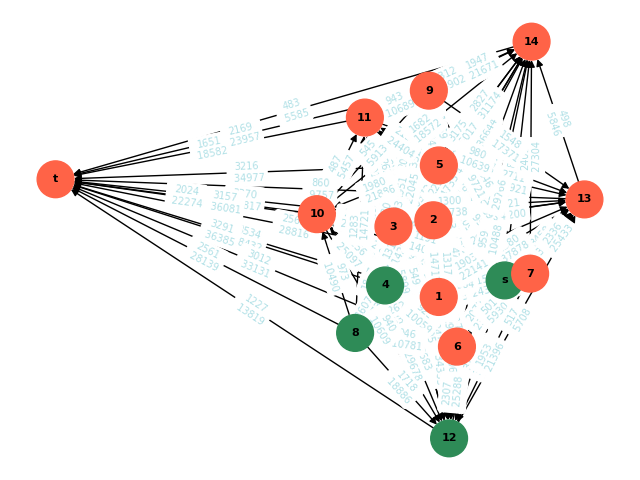
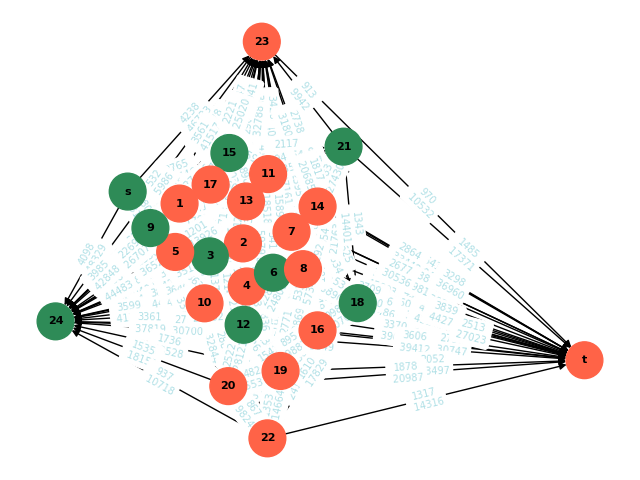
new plots

Changed region(s): [[0.0312, 0.0312, 0.9688, 0.9688]]

diff --git a/main_code/results.py b/main_code/results.py
@@ -1,17 +1,31 @@
-import numpy as np
-from gurobipy import GRB
+"""Module to show the results of the optimisation model."""
+import re
+
+import networkx as nx
+from gurobipy import GRB, Model
 from icecream import ic
+from matplotlib import pyplot as plt
+from matplotlib.ticker import FuncFormatter
+
+from main_code.model_variables import ModelVariables
+from main_code.network import AcyclicNetworkGenerator
+from main_code.set_params import SetUpParameters
 
 
 class ShowResults:
-    def __init__(self, solved_model):
-        self.model = solved_model
-        self.nonzero_values = {var.VarName: var.X for var in self.model.getVars() if abs(var.X) != 0}
-        self.x_var = [key for key in self.nonzero_values.keys() if key.startswith('x')]
-        self.sorted_x_var = sorted(self.x_var, key=lambda x: int(x.split(',')[-1][:-1]))
-        self.f_var = {key: value for key, value in self.nonzero_values.items() if key.startswith('F')}
+    """Class to show the results of the optimisation model."""
 
-    def show_results(self):
+    def __init__(self, solved_model: Model, params: SetUpParameters, network: AcyclicNetworkGenerator, model_variables: ModelVariables) -> None:
+        self.model = solved_model
+        self.params = params
+        self.network = network
+        self.model_variables = model_variables
+        self.nonzero_values = {var.VarName: var.X for var in self.model.getVars() if abs(var.X) != 0}
+        self.x_var = [key for key in self.nonzero_values if key.startswith("x")]
+        self.sorted_x_var = sorted(self.x_var, key=lambda x: int(x.split(",")[-1][:-1]))
+        self.f_var = {key: value for key, value in self.nonzero_values.items() if key.startswith("F")}
+
+    def show_results(self) -> None:
         """Print the results of the optimisation model."""
         if self.model.status == GRB.Status.OPTIMAL:
             ic("Optimal objective value:", self.model.objVal)
@@ -22,25 +36,83 @@ class ShowResults:
             for var_name, value in sorted_nonzero_values.items():
                 ic(f"{var_name}: {value}")
 
-    def get_route(self):
+    def _get_route(self) -> list:
         route = []
-
-        for name in self.sorted_x_var:
-            components = [component.strip() for component in name[2:name.rfind(')')].split(',')]
-            for component in components:
-                try:
-                    component = int(component)
-                except ValueError:
-                    component = str(component)
-                if component not in route:
-                    route.append(component)
-
+        for point in self.sorted_x_var:
+            current = point.split("[")[1].split(",")[0]
+            match = re.search(r"\d+", current)
+            if match:
+                route.append(int(match.group()))
+            else:
+                route.append(current)
+        route.append(self.sorted_x_var[-1].split(",")[1].split(",")[0])
         return route
 
-# Example usage
-# solved_model = <your_solved_model>
-# Fmax = <maximum_fuel_capacity>
-# fij = <fuel_consumption_matrix>
-# NF = <nodes_with_fuel_stations>
-# results = ShowResults(solved_model, Fmax, fij, NF)
-# route, fuel, fuel_com, time_steps = results.get_route()
+    def _get_route_data(self) -> dict:
+        nodes = self._get_route()
+        route_data = {}
+        for i in range(len(nodes) - 1):
+            route_data[i] = self.network.G.get_edge_data(nodes[i], nodes[i + 1])
+        return route_data
+
+    @property
+    def _get_take_off_fuel_levels(self) -> list[float]:
+        route = self._get_route()
+        take_off_fuel = [0.0] * len(route)
+        take_off_fuel[0] = self.params.fuel_capacity
+        for node in range(1, len(route)):
+            if route[node] in self.model_variables.nodes_refuel:
+                take_off_fuel[node] = self.params.fuel_capacity
+            else:
+                take_off_fuel[node] = take_off_fuel[node - 1] - self.model_variables.fij[route[node - 1], route[node]]
+        return take_off_fuel
+
+    @property
+    def _get_landings_fuel_levels(self) -> list[float]:
+        route = self._get_route()
+        landings_fuel = [0.0] * len(route)
+        landings_fuel[0] = self.params.fuel_capacity
+        take_off_fuel = self._get_take_off_fuel_levels
+        for node in range(1, len(route)):
+            landings_fuel[node] = take_off_fuel[node - 1] - self.model_variables.fij[route[node - 1], route[node]]
+
+        return landings_fuel
+
+    def plot_route_data(self) -> None:
+        """Plot the optimal route data."""
+        nodes = self._get_route()
+        ic(self.model_variables.nodes_refuel)
+        costs = [self.model_variables.cij[nodes[i], nodes[i + 1]] for i in range(len(nodes) - 1)]
+        time_steps = [i + 1 for i in range(len(nodes))]
+        route_graph = nx.DiGraph()
+        route_graph.add_nodes_from(nodes)
+        edges = [(nodes[i], nodes[i + 1]) for i in range(len(nodes) - 1)]
+        route_graph.add_edges_from(edges)
+
+        # Create edge labels dictionary
+        edge_labels = {(nodes[i], nodes[i + 1]): costs[i] for i in range(len(nodes) - 1)}
+        pos = {node: (index + 1, self._get_take_off_fuel_levels[index]) for index, node in enumerate(nodes)}
+        y_values = [val for pair in zip(self._get_landings_fuel_levels, self._get_take_off_fuel_levels) for val in pair]
+        x_values = [item for item in time_steps for _ in range(2)]
+        fig, ax = plt.subplots(figsize=(21, 8))
+        plt.plot(x_values, y_values, marker="o", linestyle="-", color="steelblue")
+
+        nx.draw(
+            route_graph,
+            pos,
+            with_labels=True,
+            font_weight="bold",
+            node_size=2000,
+            node_color="lightblue",
+            font_size=12,
+            font_color="black",
+            arrowsize=20,
+            ax=ax,
+        )
+        nx.draw_networkx_edge_labels(G=route_graph, pos=pos, edge_labels=edge_labels, font_color="red")
+        ax.tick_params(left=True, bottom=True, labelleft=True, labelbottom=True)
+        ax.yaxis.set_major_formatter(FuncFormatter(lambda x, _: f"{int(x):,}"))
+        plt.xlabel("Time Steps")
+        plt.ylabel("Fuel Levels [pounds]")
+        plt.title("Optimal Route")
+        plt.show()

diff --git a/main_code/main.py b/main_code/main.py
@@ -1,5 +1,4 @@
 """Module for main code."""
-import numpy as np
 from gurobipy import Model
 from icecream import ic
 
@@ -23,11 +22,18 @@ class Main:
         self.params: SetUpParameters = SetUpParameters()
         # Create the network
         self.network: AcyclicNetworkGenerator = self.create_network
+        self.optimisation_model: OptimisationModel = self.set_up_optimisation_model
+        self.model_variables = self.optimisation_model.variables
 
     @property
     def create_network(self) -> AcyclicNetworkGenerator:
         """Create and return an acyclic network."""
         return AcyclicNetworkGenerator(params=self.params)
+
+    @property
+    def set_up_optimisation_model(self) -> OptimisationModel:
+        """Set up the optimisation model."""
+        return OptimisationModel(network=self.network, params=self.params)
 
     def visualise_network(self) -> None:
         """Visualise the acyclic network."""
@@ -40,9 +46,13 @@ class Main:
 
     def solve_optimisation_model(self) -> Model:
         """Solve the optimisation model."""
-        optimisation_model = OptimisationModel(network=self.network, params=self.params)
-        return optimisation_model.solve()
-        # return optimisation_model.results()
+        return self.optimisation_model.solve()
+
+    def get_results(self) -> ShowResults:
+        """Get the results of the optimisation model."""
+        return ShowResults(
+            solved_model=self.solve_optimisation_model(), params=self.params, network=self.network, model_variables=self.model_variables
+        )
 
 
 if __name__ == "__main__":
@@ -50,14 +60,12 @@ if __name__ == "__main__":
     # Show network graph if the flag is set
     if show_network_graph:
         main.visualise_network()
+
     # Show cost table if the flag is set
     if show_cost_table:
         main.show_cost_table()
     # Solve the optimisation model if the flag is set
     if solve:
-        model = main.solve_optimisation_model()
-        results = ShowResults(solved_model=model)
+        results = main.get_results()
         results.show_results()
-        route = results.get_route()
-        ic(route)
-
+        results.plot_route_data()

diff --git a/main_code/optimisation_model.py b/main_code/optimisation_model.py
@@ -105,7 +105,11 @@ class OptimisationModel:
                 self.F[tau]
                 <= self.F[tau - 1]
                 - quicksum(self.variables.fij[i, j] * self.X[i, j, tau - 1] for i, j in self.variables.arcs if j in self.variables.nodes)
-                + quicksum(self.params.fuel_capacity * self.X[i, j, tau - 1] for i, j in self.variables.arcs if j in self.variables.nodes_refuel),
+                + quicksum(
+                    (self.params.fuel_capacity - self.variables.fij[(i, j)]) * self.X[i, j, tau - 1]
+                    for i, j in self.variables.arcs
+                    if j in self.variables.nodes_refuel
+                ),
                 name=f"fuel_evolution_{tau}",
             )
 

diff --git a/main_code/set_params.py b/main_code/set_params.py
@@ -7,12 +7,12 @@ from dataclasses import dataclass
 class SetUpParameters:
     """Parameters for the network model."""
 
-    network_size: int = 16
+    network_size: int = 26
     psi: float = 1600 / 18000
     initial_upper_bound: int = 6000
-    fuel_capacity: int = 26000
+    fuel_capacity: int = 30000
     w1: int = 1  # Weight for cost
     w2: int = 100  # Weight for refueling cost
-    m: int = 4  # Lexicographic frequency
+    m: int = 3  # Lexicographic frequency
     e: float = 0.01  # Epsilon, optimality tolerance
     max_time: int = 3600  # Max CPU time in seconds

diff --git a/main_code/network.py b/main_code/network.py
@@ -100,6 +100,7 @@ class AcyclicNetworkGenerator:
         nx.draw(self.G, pos, with_labels=True, font_weight="bold", node_size=700, node_color=refueling_point_color_map, font_size=8)
         nx.draw_networkx_edge_labels(self.G, pos, edge_labels=edge_labels, font_color="powderblue", font_size=7)
         plt.savefig(FIGURE_PATH / "acyclic_network.png")
+        plt.show()
 
     @property
     def create_cost_table(self) -> PrettyTable:

diff --git a/tests/test_main.py b/tests/test_main.py
@@ -1,10 +1,8 @@
 """Test module for the package."""
-from main_code.optimisation_model import OptimisationModel
 
 
 class TestClass:
     """Test class for the package."""
-
 
     def test_method(self) -> None:
         """Test the method."""
